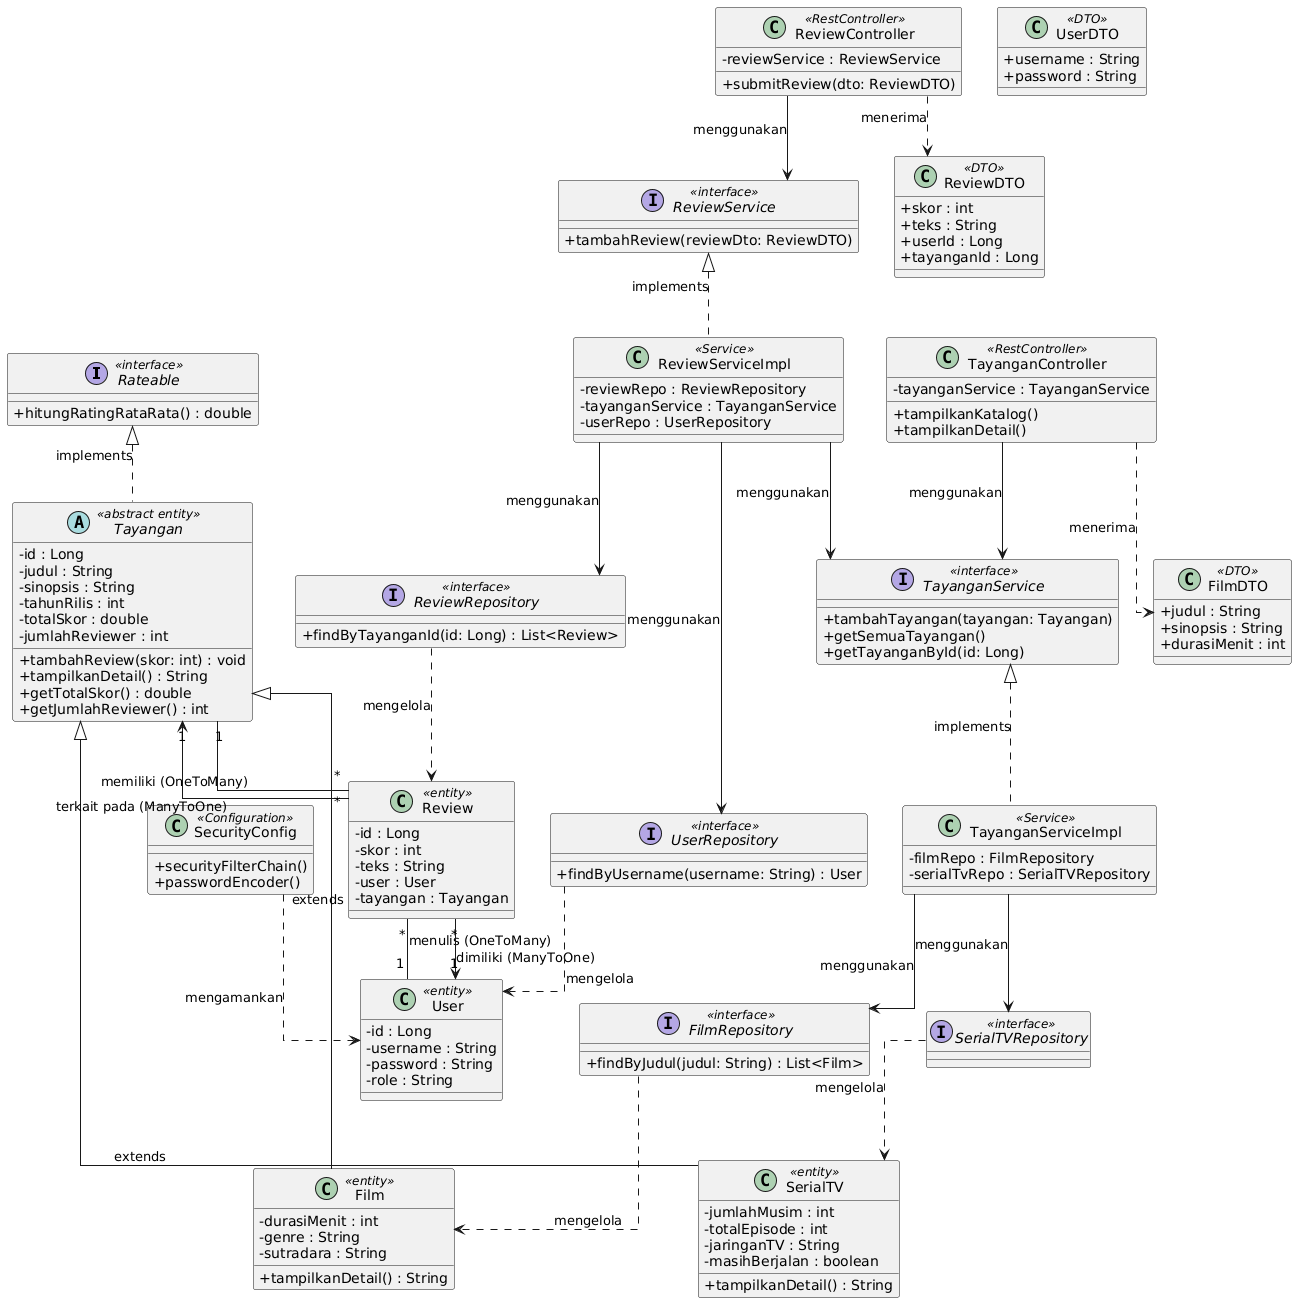
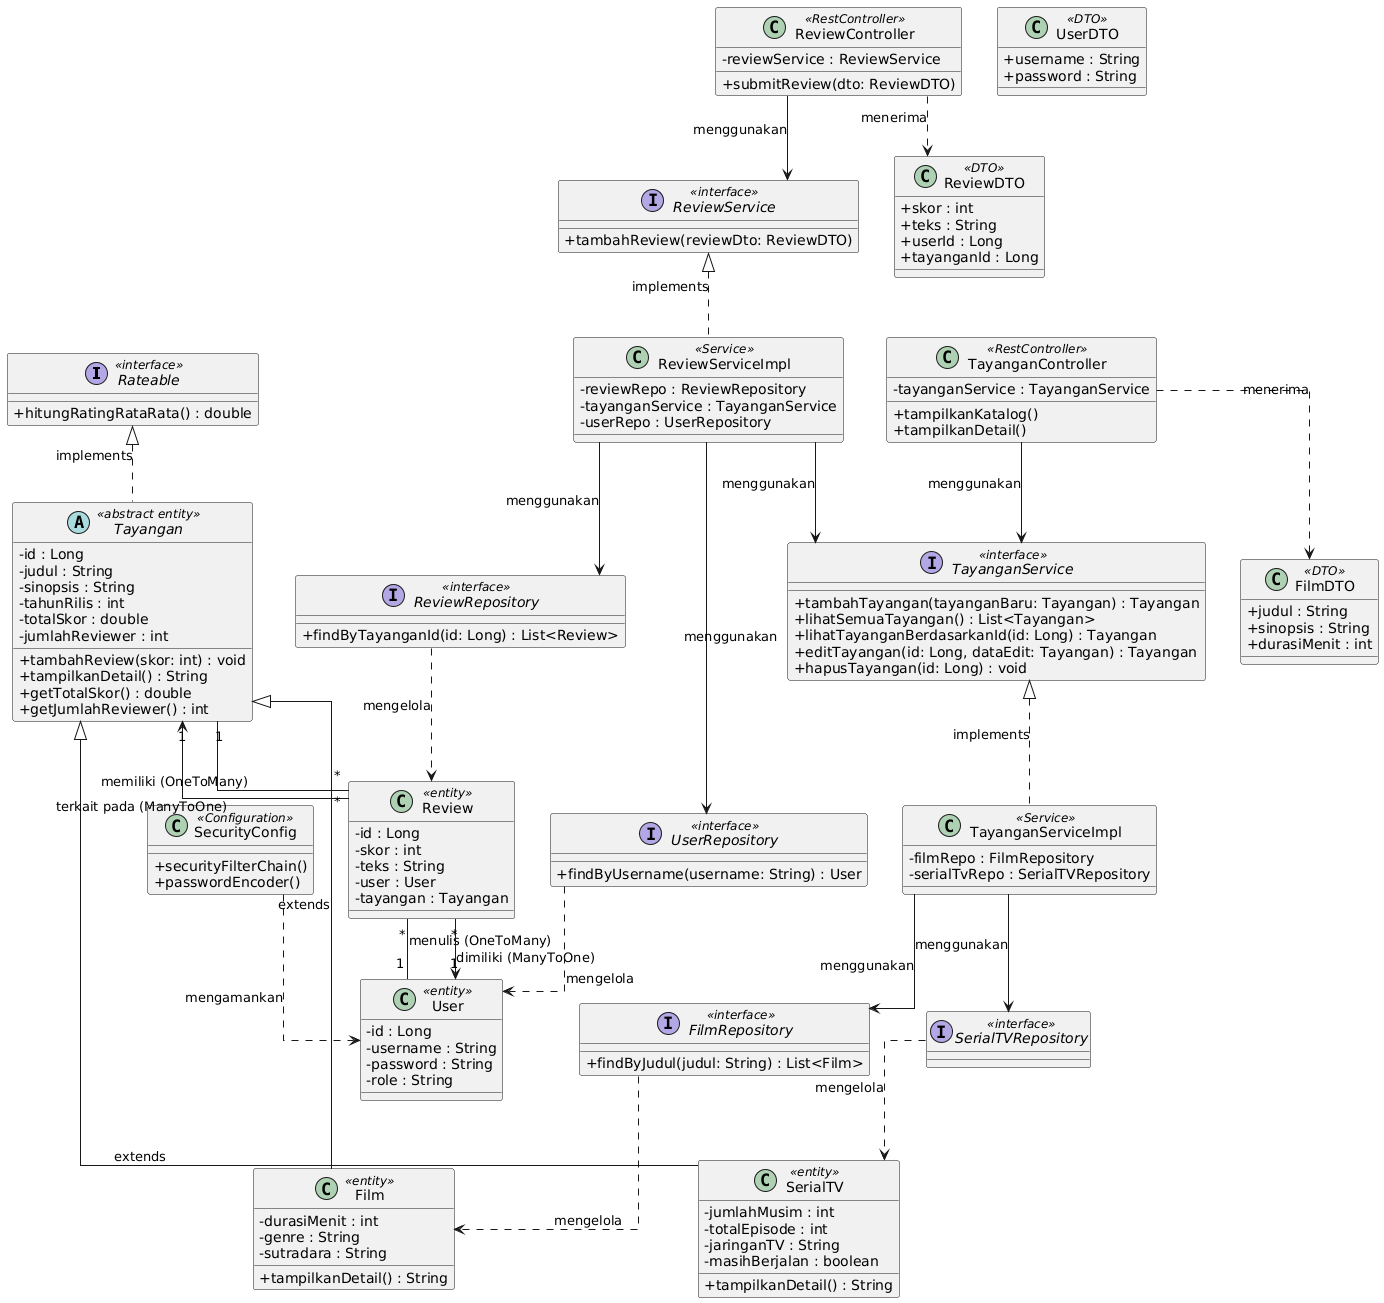
refactor: update method names in TayanganService interface for consistency

diff --git a/src/main/java/com/oop/absolutecinema/service/TayanganService.java b/src/main/java/com/oop/absolutecinema/service/TayanganService.java
@@ -4,6 +4,8 @@ import java.util.List;
 
 public interface TayanganService {
   Tayangan tambahTayangan(Tayangan tayanganBaru);
-  List<Tayangan> getSemuaTayangan();
-  Tayangan getTayanganById(String id);
+  List<Tayangan> lihatSemuaTayangan();
+  Tayangan lihatTayanganBerdasarkanId(Long id);
+  Tayangan editTayangan(Long id, Tayangan dataEdit);
+  void hapusTayangan(Long id);
 }